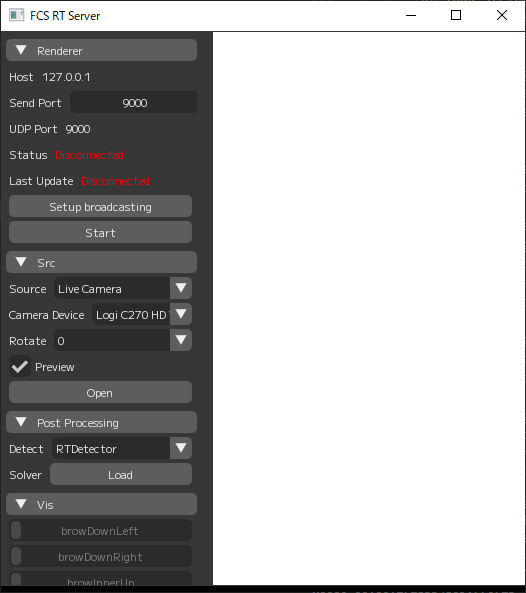
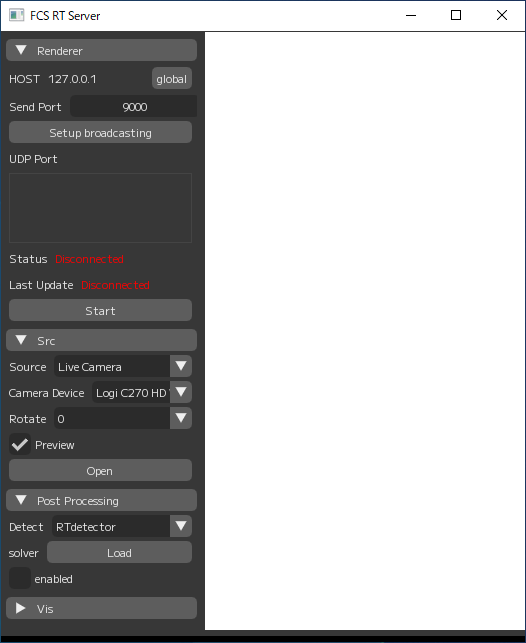
fcsrtの説明を最新版に更新

Changed region(s): [[0.0, 0.0, 1.0, 1.0]]

diff --git a/doc/016_fcsrt.md b/doc/016_fcsrt.md
@@ -7,6 +7,7 @@ UnityやUnrealEngineなどゲームエンジンと接続すると、コントロ
 左がコントロールパネル、右がカメラ・動画表示エリアです。<br>
 - Rendererタブ<br>
     - Host: 接続先のIPアドレス<br>
+    - global: IPアドレスのローカル/グローバル切り替えボタン<br>
     - SendPort: TCP接続用のポート番号<br>
     - UDPPort: UDP接続用のポート番号<br>
     - Status: 接続状態を表示します。<br>
@@ -16,7 +17,9 @@ UnityやUnrealEngineなどゲームエンジンと接続すると、コントロ
         - LiveCamera<br>
             Camera Device: カメラデバイスを選択<br>
         - VideoFile<br>
-            File Name: 動画ファイルのフルパス<br>
+            File Name: 動画ファイルの選択<br>
+        - RTFC<br>
+            Setup RTFC: RTFCのセットアップ<br>
     - Rotate: 表示するカメラ画面の回転<br>
     - Preview: プレビュー表示<br>
     - Open: カメラ・動画映像を表示します。値の取得も同時に開始します。<br><br>
@@ -26,11 +29,11 @@ UnityやUnrealEngineなどゲームエンジンと接続すると、コントロ
 - Visタブ: コントローラの一覧<br>
 
 ### 操作説明 
-**コントローラ値送信までの手順**<br>
+**クイックスタート(コントローラ値送信までの手順)**<br>
 1. FCSRTを起動します。<br>
 2. SendPortを指定します。このポート番号は接続先で設定したポート番号と同じにする必要があります。<br>
   接続先のポート設定を確認後、Setup broadcastingをクリックします。<br>
-3. 接続先との通信が確立された場合、StatusとLastUpdateがConnectedに変わります。<br>
+3. 接続先との通信が確立された場合、UDP Port欄に接続されたポートが表示されます<br>
   また、Start broadcastingが非表示になり、Resetボタンが表示されます。<br>
 ![](images/fcsrt_02.png)<br><br>
 4. Camera Deviceから使用するカメラを選択、または VideoFileに動画ファイルパスを指定して、Openをクリックします。<br>
@@ -40,6 +43,37 @@ UnityやUnrealEngineなどゲームエンジンと接続すると、コントロ
 **接続後の操作**<br>
 - StartボタンとStopボタンはトグルになっており、Stopボタンを押すことで送信を一時停止することができます。<br>
 - Resetボタンをクリックすると、コントローラ値の送信を停止し、接続先との通信を切断します。<br>
+
+**送信するソースの変更について**<br>
+FCSRTでは、以下の3つのソースからコントローラ値を送信できます。<br>
+　- Live Camera<br>
+　- Video File<br>
+　- RTFC(アプリ)<br>
+
+***Live Camera***<br>
+Live Cameraは、PCに接続されているカメラデバイスから映像を取得し、送信します。<br>
+![](images/fcsrt_04.png)<br><br>
+Camera Deviceから使用するカメラを選択します。また、カメラの映像をRotateから回転させることができます。
+Previewにチェックを入れると右のエリアにカメラからの映像が表示されます。<br>
+上記を設定後、Openを押すとカメラデバイスに接続します。<br>
+
+***Video File***<br>
+video fileは、指定したファイルから映像を取得し、送信します。<br>
+![](images/fcsrt_05.png)<br><br>
+FilenameのSelectボタンでファイル指定します。また、ファイル映像をRotateから回転させることができます。
+Previewにチェックを入れると右のエリアにカメラからの映像が表示されます。<br>
+上記を設定後、Openを押すとカメラデバイスに接続します。<br>
+
+***RTFC***<br>
+RTFCは、アプリからコントローラ値を取得し、送信します。<br>
+![](images/fcsrt_06.png)<br><br>
+RTFC IPaddressは、アプリと同じネットワークに接続されているPCのIPアドレスです。RenderタブのHOSTと同じアドレスになります。
+RTFC Portは、接続に指定するポート番号を指定します。Send Portと同じ番号にならないように指定してください。<br>
+ReceiveのSetup RTFCを押すと、上記で指定した設定でサーバを起動します。起動後、RTFCからFCSRTに接続し、コントローラ値を取得します。<br>
+RTFCと正しく接続できている場合、StatusがConnectedになり、UDPポートを作成してコントローラの送信を待ちます。
+Setup RTFCボタンの下には接続されている名前と接続先(RTFC側)のIPアドレスが表示されます。
+また、Resetボタンを押すと、開いているRTFC用のサーバーを閉じることができます。<br>
+![](images/fcsrt_07.png)<br><br>
 
 **送信するコントローラの変更について**<br>
 PostProcessingタブ内のLoadからFCSから出力したSolverをダウンロードすることができます。<br>
